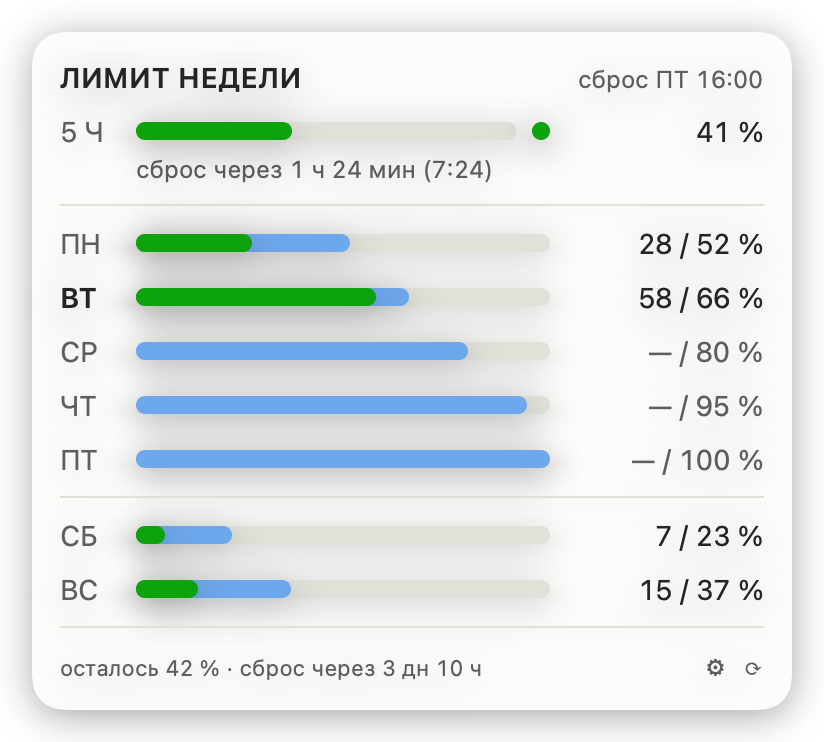
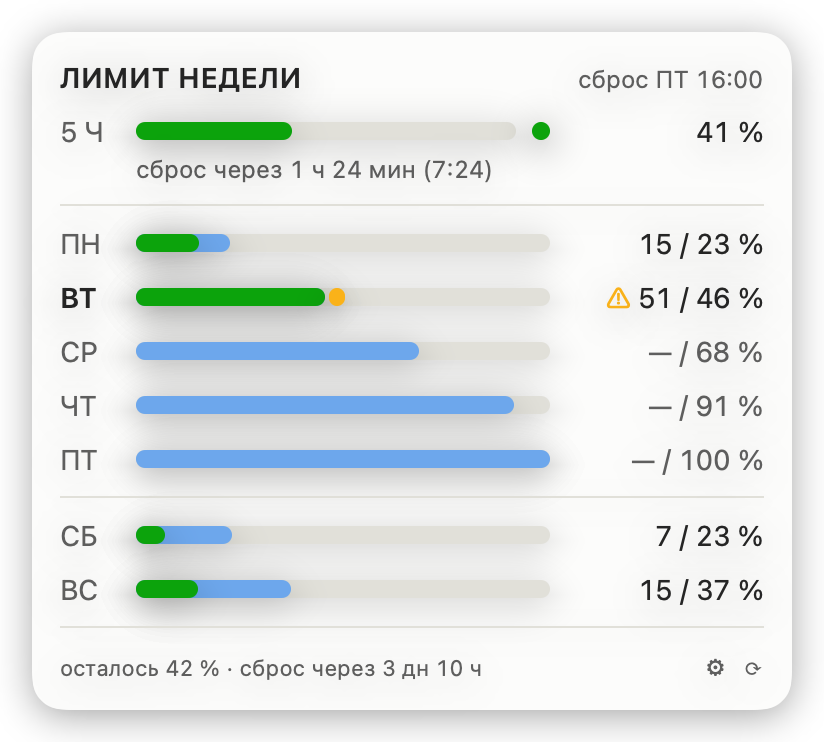
Пересчитал проценты недели от понедельника

diff --git a/Sources/ClaudeWeekCore/WeekWindow.swift b/Sources/ClaudeWeekCore/WeekWindow.swift
@@ -319,12 +319,52 @@ public struct WeekWindow: Sendable, Equatable {
         calendar.component(.weekday, from: date) == 2
     }
 
+    /// Первые сутки ряда, когда он живёт в своей шкале, — иначе nil.
+    ///
+    /// Неделя, начатая понедельником, отсчитывает план от него: строка
+    /// понедельника открывается нулём, пятница приходит к 100 % в момент
+    /// сброса. Ряд от дня сброса и ряд, который и так начинается сутками
+    /// сброса, живут в общей с окном шкале — перешкаливать там нечего.
+    public func scaleBase(at date: Date) -> Int? {
+        guard weekStart == .monday else { return nil }
+        guard let first = rowOrder(at: date).first, first > 0 else { return nil }
+        return first
+    }
+
+    /// План к концу суток `index` в шкале ряда, открытого сутками `base`:
+    /// 0 в их полночь, 100 % в момент сброса.
+    ///
+    /// Считается заново по рабочим часам отрезка, а не сжатием недельного
+    /// плана: у выходных, оставшихся за скобкой, свой вес, и вычитать его
+    /// из общей шкалы значило бы гадать, сколько их часов «принадлежит»
+    /// рабочей неделе.
+    public func planPercent(forDay index: Int, from base: Int) -> Double {
+        guard dayBounds.indices.contains(base), dayBounds.indices.contains(index + 1) else { return 0 }
+        let from = dayBounds[base]
+        let total = workHours.seconds(from: from, to: end, calendar: calendar)
+        guard total > 0 else { return 0 }
+        let worked = workHours.seconds(from: from, to: dayBounds[index + 1], calendar: calendar)
+        return min(max(worked / total, 0), 1) * 100
+    }
+
     /// Строки панели на момент `date`. Номера суток сохраняются: по ним
     /// подтягивается факт и подсвечивается текущая строка.
     public func rows(at date: Date) -> [WeekDaySlot] {
         let days = days
+        let base = scaleBase(at: date)
         return rowOrder(at: date).compactMap { index in
-            days.indices.contains(index) ? days[index] : nil
+            guard days.indices.contains(index) else { return nil }
+            let day = days[index]
+            // Сутки за скобкой — те, что прошли до начала недели, — остаются
+            // в недельной шкале: они и правда съели свою долю лимита.
+            guard let base, index >= base else { return day }
+            return WeekDaySlot(
+                index: day.index,
+                start: day.start,
+                end: day.end,
+                planPercent: planPercent(forDay: index, from: base),
+                isPartial: day.isPartial
+            )
         }
     }
 

diff --git a/Sources/ClaudeWeekCore/Snapshot.swift b/Sources/ClaudeWeekCore/Snapshot.swift
@@ -236,10 +236,39 @@ public struct UsageSnapshot: Sendable {
     /// Строки панели на момент `now`: семь суток в порядке, который задаёт
     /// `weekStart`, — от сброса или от понедельника. День сброса занимает
     /// одну строку из двух своих половин (см. `WeekWindow.rowOrder(at:)`).
+    ///
+    /// У ряда, открытого понедельником, своя шкала: и план, и факт считаются
+    /// от того, что осталось к его утру, — понедельник начинается с нуля,
+    /// пятница приходит к 100 %. Сутки за скобкой остаются в недельной.
     public func rows(at now: Date) -> [DayUsage] {
-        window.rowOrder(at: now).compactMap { index in
-            byDay.indices.contains(index) ? byDay[index] : nil
+        let base = window.scaleBase(at: now)
+        return window.rowOrder(at: now).compactMap { index in
+            guard byDay.indices.contains(index) else { return nil }
+            let day = byDay[index]
+            guard let base, index >= base else { return day }
+            return DayUsage(
+                index: day.index,
+                start: day.start,
+                end: day.end,
+                planPercent: window.planPercent(forDay: index, from: base),
+                usedPercent: rebased(day.usedPercent, base: base),
+                isPartial: day.isPartial
+            )
         }
+    }
+
+    /// Факт в шкале ряда: какая доля остатка, что был к началу недели, съедена
+    /// к концу этих суток. Знаменатель здесь фактический, а не плановый: план
+    /// раскладывается по тому, что осталось на самом деле, и сравнивать его с
+    /// долей от нетронутого бюджета значило бы мерить их разными линейками.
+    private func rebased(_ used: Double?, base: Int) -> Double? {
+        guard let used else { return nil }
+        // Факт на начало недели — накопительный итог суток перед ней.
+        let spent = byDay.indices.contains(base - 1) ? (byDay[base - 1].usedPercent ?? 0) : 0
+        let left = 100 - spent
+        // Лимит сожжён ещё до понедельника: делить нечего, вся неделя красная.
+        guard left > 0 else { return 100 }
+        return min(max((used - spent) / left * 100, 0), 100)
     }
 
     /// Тот же снимок с другой сессией. Нужна потому, что считает неделю один

diff --git a/Sources/ClaudeWeekApp/CLI.swift b/Sources/ClaudeWeekApp/CLI.swift
@@ -288,10 +288,8 @@ enum CLI {
         // он лежит в кеше, а не в конфиге.
         let budget = try? await local.budget(for: usage, override: Store.loadCache()?.weeklyBudget)
         var percent: Output.Percent?
-        var cumulative: [Double?] = usage.costByDay.map { _ in nil }
 
         if let snapshot {
-            cumulative = snapshot.byDay.map(\.usedPercent)
             let metrics = snapshot.metrics(at: now, thresholds: config.thresholds)
             percent = Output.Percent(
                 used: metrics.usedPercent,
@@ -316,18 +314,29 @@ enum CLI {
                 )
             }
 
-        // Те же семь строк, что и на панели: день сброса одной, той его
-        // половиной, что идёт сейчас. `index` — номер суток окна, поэтому
+        // Те же семь строк, что и на панели: день сброса одной, а у ряда от
+        // понедельника — своя шкала процентов. Считает их снимок, чтобы вывод
+        // сходился с панелью до цифры; без снимка остаётся голое окно, и факт
+        // в строках взять неоткуда. `index` — номер суток окна, поэтому
         // у последней пятницы он седьмой, а не шестой.
-        let days = window.rows(at: now).map { slot in
+        let rows: [(index: Int, start: Date, plan: Double, used: Double?, partial: Bool)] =
+            snapshot.map { snapshot in
+                snapshot.rows(at: now).map {
+                    ($0.index, $0.start, $0.planPercent, $0.usedPercent, $0.isPartial)
+                }
+            } ?? window.rows(at: now).map {
+                ($0.index, $0.start, $0.planPercent, nil, $0.isPartial)
+            }
+
+        let days = rows.map { row in
             Output.Day(
-                index: slot.index,
-                label: Formatting.weekdayShort(slot.start, calendar: window.calendar),
-                start: slot.start,
-                planPercent: slot.planPercent,
-                usedPercent: slot.index < cumulative.count ? cumulative[slot.index] : nil,
-                cost: slot.index < usage.costByDay.count ? usage.costByDay[slot.index] : nil,
-                partial: slot.isPartial
+                index: row.index,
+                label: Formatting.weekdayShort(row.start, calendar: window.calendar),
+                start: row.start,
+                planPercent: row.plan,
+                usedPercent: row.used,
+                cost: row.index < usage.costByDay.count ? usage.costByDay[row.index] : nil,
+                partial: row.partial
             )
         }
 

diff --git a/Sources/ClaudeWeekTests/PlanTests.swift b/Sources/ClaudeWeekTests/PlanTests.swift
@@ -157,6 +157,46 @@ func runPlanTests(_ t: Harness) {
         t.equal(freshMetrics.state, .normal, "после сброса — спокойно")
     }
 
+    // Ряд от понедельника живёт в своей шкале: 100 % в нём — это не весь
+    // недельный лимит, а то, что осталось к утру понедельника.
+    t.suite("строки дней: шкала от понедельника") {
+        let window = WeekWindow(containing: at(2026, 8, 9, 12, 0), config: config(weekStart: .monday))
+        let now = at(2026, 8, 11, 12, 0)
+        // Факт по суткам окна: к концу воскресенья съедено 45 % недели.
+        let snapshot = UsageSnapshot.make(
+            usedPercent: 52,
+            cumulativeByDay: [10, 25, 45, 52, nil, nil, nil, nil],
+            window: window,
+            source: .local,
+            fetchedAt: now,
+            isEstimate: true
+        )
+        let rows = snapshot.rows(at: now)
+        t.equal(rows.map(\.index), [3, 4, 5, 6, 7, 1, 2], "ряд от понедельника, выходные за скобкой")
+
+        // Остаток к утру понедельника — 55 % недели. Понедельник съел из него
+        // 52 − 45 = 7, то есть 12,7 % остатка.
+        t.close(rows[0].usedPercent ?? 0, 100 * 7 / 55, "факт понедельника — доля остатка")
+        t.close(rows[0].planPercent, 100 * 13 / 56, "и план его суток — тоже")
+        t.equal(rows[1].usedPercent, nil, "будущие сутки по-прежнему без факта")
+
+        // Выходные остались в недельной шкале: они и правда съели свою долю
+        // лимита, и пересчитывать её не на что.
+        t.close(rows[5].usedPercent ?? 0, 25, "суббота — накопительный процент недели")
+        t.close(rows[6].usedPercent ?? 0, 45, "воскресенье — тоже")
+
+        // Лимит, сожжённый до понедельника, делить не на что.
+        let burnt = UsageSnapshot.make(
+            usedPercent: 100,
+            cumulativeByDay: [40, 70, 100, 100, nil, nil, nil, nil],
+            window: window,
+            source: .local,
+            fetchedAt: now,
+            isEstimate: true
+        )
+        t.close(burnt.rows(at: now)[0].usedPercent ?? 0, 100, "неделя без остатка — строка полная")
+    }
+
     t.suite("строки дней") {
         let now = window.start.addingTimeInterval(window.duration / 2)
         let snapshot = UsageSnapshot.make(

diff --git a/Sources/ClaudeWeekTests/WeekWindowTests.swift b/Sources/ClaudeWeekTests/WeekWindowTests.swift
@@ -95,10 +95,14 @@ func runWeekWindowTests(_ t: Harness) {
                 "номера суток окна сохраняются, меняется только порядок строк")
         t.equal(window.rows(at: at(2026, 8, 9, 12, 0)).count, 7, "строк всё те же семь")
 
-        // Дню сброса достаётся утренняя половина: с ней ряд от понедельника
-        // до пятницы читается сверху вниз и приходит ровно к 100 %.
+        // У ряда своя шкала: понедельник открывается нулём, пятница приходит
+        // к 100 % в момент сброса. 56 рабочих часов от полуночи понедельника
+        // до него: четверо полных суток по 13 и четыре часа утра пятницы.
         let plan = window.rows(at: at(2026, 8, 9, 12, 0)).map { Int($0.planPercent.rounded()) }
-        t.equal(plan, [53, 67, 81, 96, 100, 24, 38], "план доходит до 100 % в строке дня сброса")
+        t.equal(plan, [23, 46, 70, 93, 100, 24, 38],
+                "неделя от понедельника до сброса, выходные — в недельной шкале")
+        t.close(window.planPercent(forDay: 3, from: 3), 100 * 13 / 56, "понедельник — 13 часов из 56")
+        t.equal(window.scaleBase(at: at(2026, 8, 9, 12, 0)), 3, "шкала открывается понедельником")
 
         // Вечер пятницы в ряд не попал, но «сегодня» на панели быть обязано:
         // у этого дня недели строка одна, её и подсвечиваем.

diff --git a/Sources/ClaudeWeekApp/UpdateController.swift b/Sources/ClaudeWeekApp/UpdateController.swift
@@ -349,8 +349,8 @@ final class UpdateController {
         case .checking:
             strings.pick("спрашиваю GitHub…", "asking GitHub…")
         case .upToDate(let at):
-            strings.pick("у вас последняя — \(ClaudeWeek.version), проверено \(Self.checkedAt(at, lang: strings.lang))",
-                         "you are on the latest — \(ClaudeWeek.version), checked \(Self.checkedAt(at, lang: strings.lang))")
+            strings.pick("последняя версия — \(ClaudeWeek.version), проверено \(Self.checkedAt(at, lang: strings.lang))",
+                         "latest version — \(ClaudeWeek.version), checked \(Self.checkedAt(at, lang: strings.lang))")
         case .available(let release):
             strings.pick("доступна \(release.version) — у вас \(ClaudeWeek.version)",
                          "\(release.version) is available — you have \(ClaudeWeek.version)")

diff --git a/Sources/ClaudeWeekApp/Screenshot.swift b/Sources/ClaudeWeekApp/Screenshot.swift
@@ -63,6 +63,9 @@ enum Screenshot {
         // рабочий день оставляем из конфига: от них зависят подписи строк.
         config.appearance = AppearanceConfig()
         config.thresholds = Thresholds()
+        // Порядок строк — тоже вид, а не окно: картинки должны показывать
+        // заводскую неделю от понедельника, чей бы конфиг ни лежал рядом.
+        config.weekStart = Config.default.weekStart
         // Единственное отступление от заводского вида: недельный ряд. Из
         // коробки панель компактная, но картинка в README должна показывать
         // то, ради чего программа написана, — все семь суток разом. Как

diff --git a/docs/USAGE.md b/docs/USAGE.md
@@ -270,18 +270,27 @@ P12_PASSWORD=… ./scripts/signing-cert.sh --import ~/claudeweek-signing.p12
   снова первая строка — уже с новыми 8,8 % на вечер.
 
 Так ряд выглядит при «Начале недели» = **День сброса**. По умолчанию же он
-идёт **с понедельника** — так, как неделя устроена у человека, а не у сервера:
+идёт **с понедельника** — так, как неделя устроена у человека, а не у сервера,
+— и живёт в своей шкале: **понедельник открывается нулём, пятница приходит к
+100 %** в момент сброса.
 
 | ПН | ВТ | СР | ЧТ | ПТ | ─ | СБ | ВС |
 |---|---|---|---|---|---|---|---|
-| 51,6 % | 65,9 % | 80,2 % | 94,5 % | 100 % | | 23,1 % | 37,4 % |
+| 22,8 % | 45,6 % | 68,4 % | 91,2 % | 100 % | | 23,1 % | 37,4 % |
 
-Пятнице здесь достаётся её утро: сброс стоит в конце этих суток, и план в её
-строке доходит ровно до 100 % — ряд от понедельника до пятницы читается сверху
-вниз. Суббота с воскресеньем в этом окне уже прошли (они идут сразу за
-сбросом), поэтому уходят под черту в конец ряда — их проценты не обвал плана,
-а начало той же недели. Порядок от момента не зависит: строки стоят на своих
-местах всю неделю, меняется только подсвеченная.
+Пятнице здесь достаётся её утро: сброс стоит в конце этих суток. 100 % в этой
+шкале — не весь недельный лимит, а **то, что осталось к утру понедельника**:
+57 рабочих часов от его полуночи до сброса раскладывают остаток, а факт
+считается от той же точки. Сожгли половину лимита за выходные — строки покажут,
+как расходуется вторая половина, а не всю неделю разом.
+
+Суббота с воскресеньем остаются **за скобкой, под чертой в конце ряда**, и
+проценты у них недельные: они и правда съели свою долю лимита, и пересчитывать
+её не на что. Итог недели в футере — тоже недельный: «осталось 42 %» отвечает
+за весь лимит, а строки ПН → ПТ — за его остаток.
+
+Порядок от момента не зависит: строки стоят на своих местах всю неделю,
+меняется только подсвеченная.
 
 Что из этого следует на практике:
 

diff --git a/CHANGELOG.md b/CHANGELOG.md
@@ -19,10 +19,14 @@
 ### Добавлено
 
 - Настройка **«Начало недели»**: ряд суток на панели идёт либо с понедельника
-  (по умолчанию), либо с дня сброса, как раньше. При понедельнике пятнице
-  достаётся её утро — план в её строке доходит ровно до 100 %, — а суббота с
-  воскресеньем, прошедшие сразу после сброса, уходят под черту в конец ряда.
-  Цифры и границы окна настройка не трогает: двигается только порядок строк.
+  (по умолчанию), либо с дня сброса, как раньше. При понедельнике у ряда своя
+  шкала: понедельник открывается нулём, пятница приходит к 100 % в момент
+  сброса. 100 % здесь — не весь недельный лимит, а то, что осталось к утру
+  понедельника: по нему раскладывается план, от него же считается факт.
+  Суббота с воскресеньем, прошедшие сразу после сброса, уходят под черту в
+  конец ряда и остаются в недельных процентах — они и правда съели свою долю
+  лимита. Итог недели в футере тоже недельный. Границы окна и момент сброса
+  настройка не трогает.
 
 ### Изменено
 
@@ -40,6 +44,8 @@
 
 ### Исправлено
 
+- В строке состояния на вкладке «О программе» больше нет «у вас»: просто
+  «последняя версия — 0.1.12, проверено в 13:17».
 - Разовый сбой GitHub API больше не отменяет выпуск. Список файлов PR
   спрашивается с тремя попытками: 17 августа GitHub был в частичной аварии и
   ответил на этот запрос `HTTP 503` ровно в момент слияния — шаг упал, и версия

diff --git a/docs/ARCHITECTURE.md b/docs/ARCHITECTURE.md
@@ -124,6 +124,13 @@ SwiftUI` — значит, расчёт просочился в UI или нао
      сброса выбирается не моментом, а местом в ряду: утро перед следующим
      сбросом, чтобы план дорастал до 100 % в его строке. Сутки, прошедшие до
      понедельника, встают в конец ряда — панель отделяет их чертой.
+     У такого ряда своя шкала (`WeekWindow.scaleBase(at:)`): план считается
+     заново по рабочим часам отрезка «полночь понедельника → сброс»
+     (`planPercent(forDay:from:)`), а факт — долей остатка, что был к этой
+     полуночи (`UsageSnapshot.rebased`). Знаменатель у факта фактический, а
+     не плановый: план раскладывается по тому, что осталось на самом деле,
+     и мерить их разными линейками нельзя. Строки за скобкой остаются
+     в недельной шкале, как и итог недели в футере.
    Нумеруются строки сутками окна, а не позицией в ряду: по `DayUsage.index`
    подтягивается факт. Текущую строку ищет `WeekWindow.highlightedRow(at:)` —
    в день сброса его половина может не попасть в ряд, и «сегодня»
